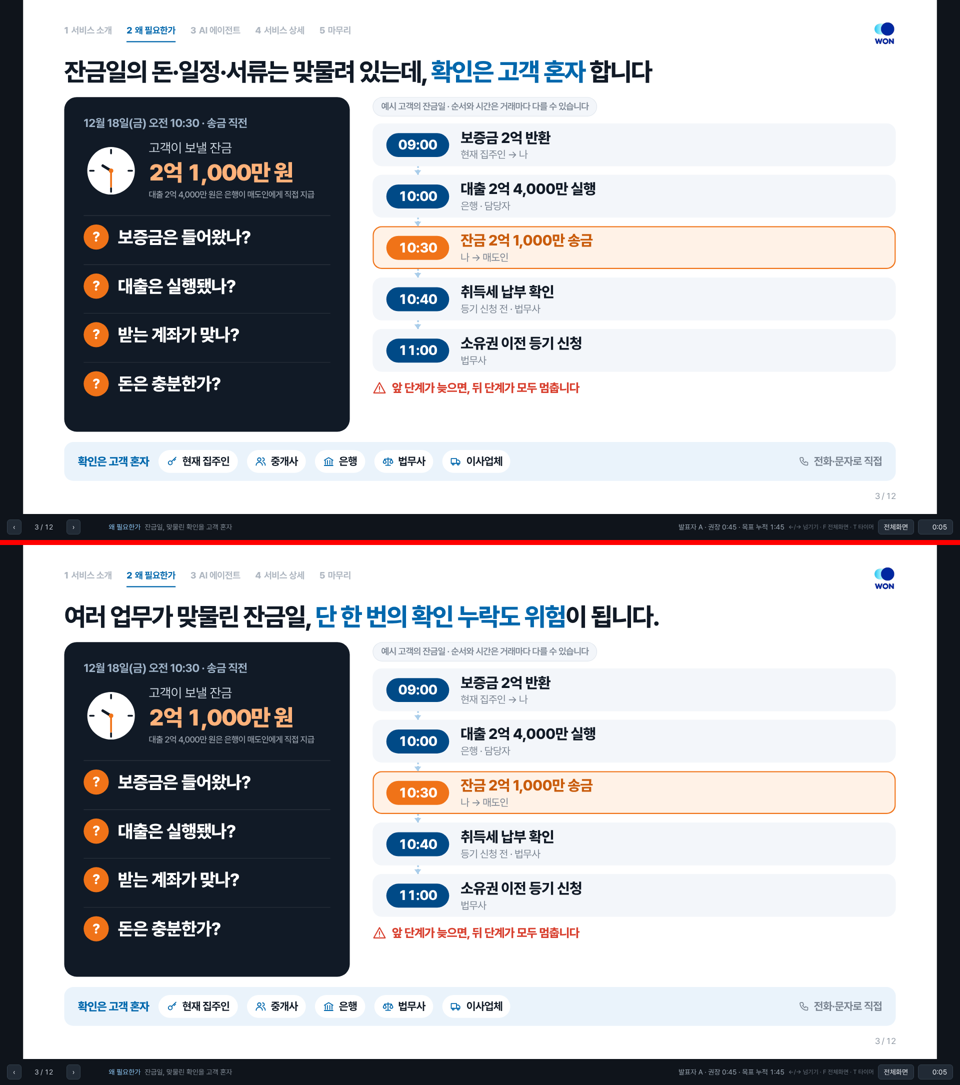
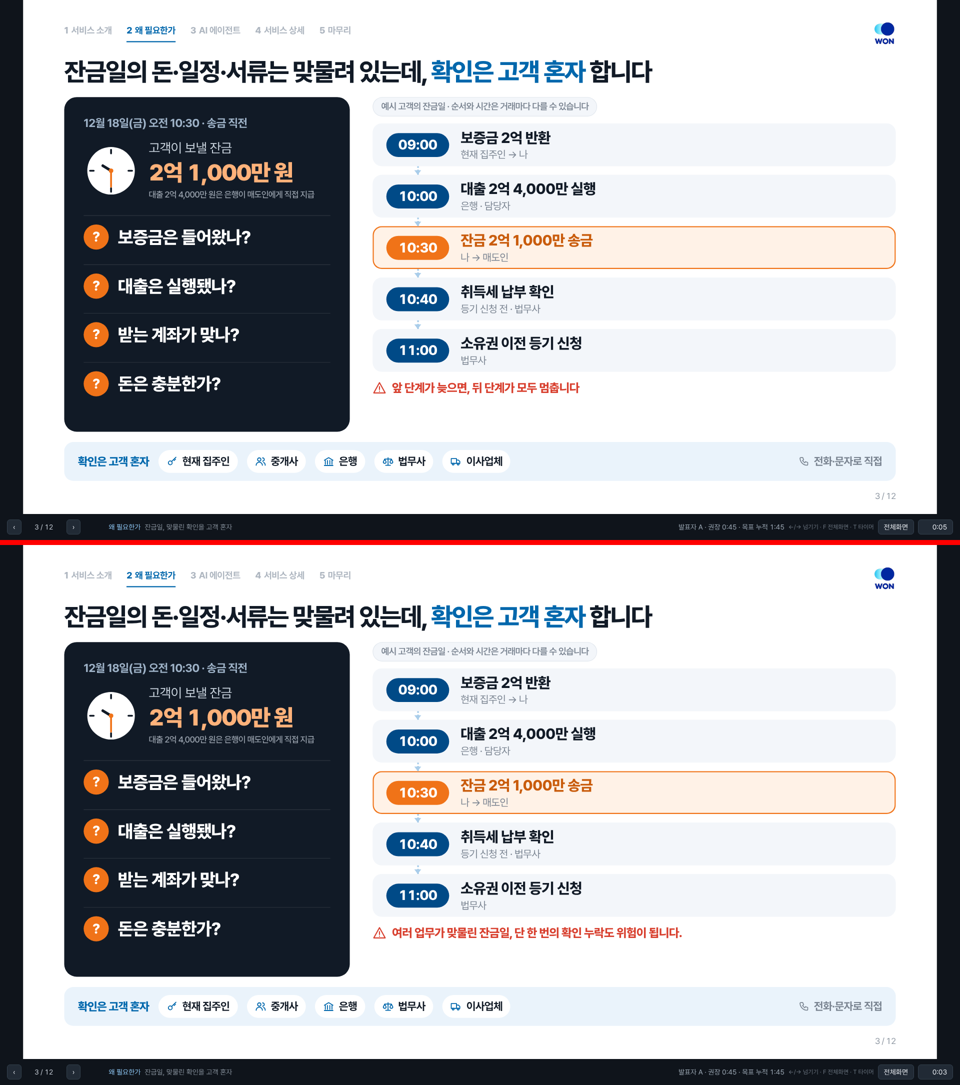
Slide 3: restore title, update red warning line instead
Claude-Session: https://claude.ai/code/session_016QPZpVcFhkLCoj7yW5go1a

Changed region(s): [[0.0625, 0.5475, 0.6875, 0.5779], [0.4062, 0.8516, 0.7188, 0.882]]

diff --git a/out/WON첫집메이트_본선발표_최종수정.html b/out/WON첫집메이트_본선발표_최종수정.html
@@ -758,7 +758,7 @@ html.pres.idle,html.pres.idle *{cursor:none}
 <section class="frame" id="s3" data-sec="2" data-who="A" data-time="45" data-name="잔금일, 맞물린 확인을 고객 혼자">
 <div class="slide std">
   <div class="top"></div>
-  <h2 class="ttl rv">여러 업무가 맞물린 잔금일, <span class="hl">단 한 번의 확인 누락도 위험</span>이 됩니다.</h2>
+  <h2 class="ttl rv">잔금일의 돈·일정·서류는 맞물려 있는데, <span class="hl">확인은 고객 혼자</span> 합니다</h2>
   <div class="body p3">
     <div class="moment rv">
       <p class="when">12월 18일(금) 오전 10:30 · 송금 직전</p>
@@ -777,7 +777,7 @@ html.pres.idle,html.pres.idle *{cursor:none}
         <li><span class="t">10:40</span><div><b>취득세 납부 확인</b><small>등기 신청 전 · 법무사</small></div></li>
         <li><span class="t">11:00</span><div><b>소유권 이전 등기 신청</b><small>법무사</small></div></li>
       </ol>
-      <p class="dep"><svg class="i"><use href="#i-alert"/></svg>앞 단계가 늦으면, 뒤 단계가 모두 멈춥니다</p>
+      <p class="dep"><svg class="i"><use href="#i-alert"/></svg>여러 업무가 맞물린 잔금일, 단 한 번의 확인 누락도 위험이 됩니다.</p>
     </div>
   </div>
   <div class="alone rv">
